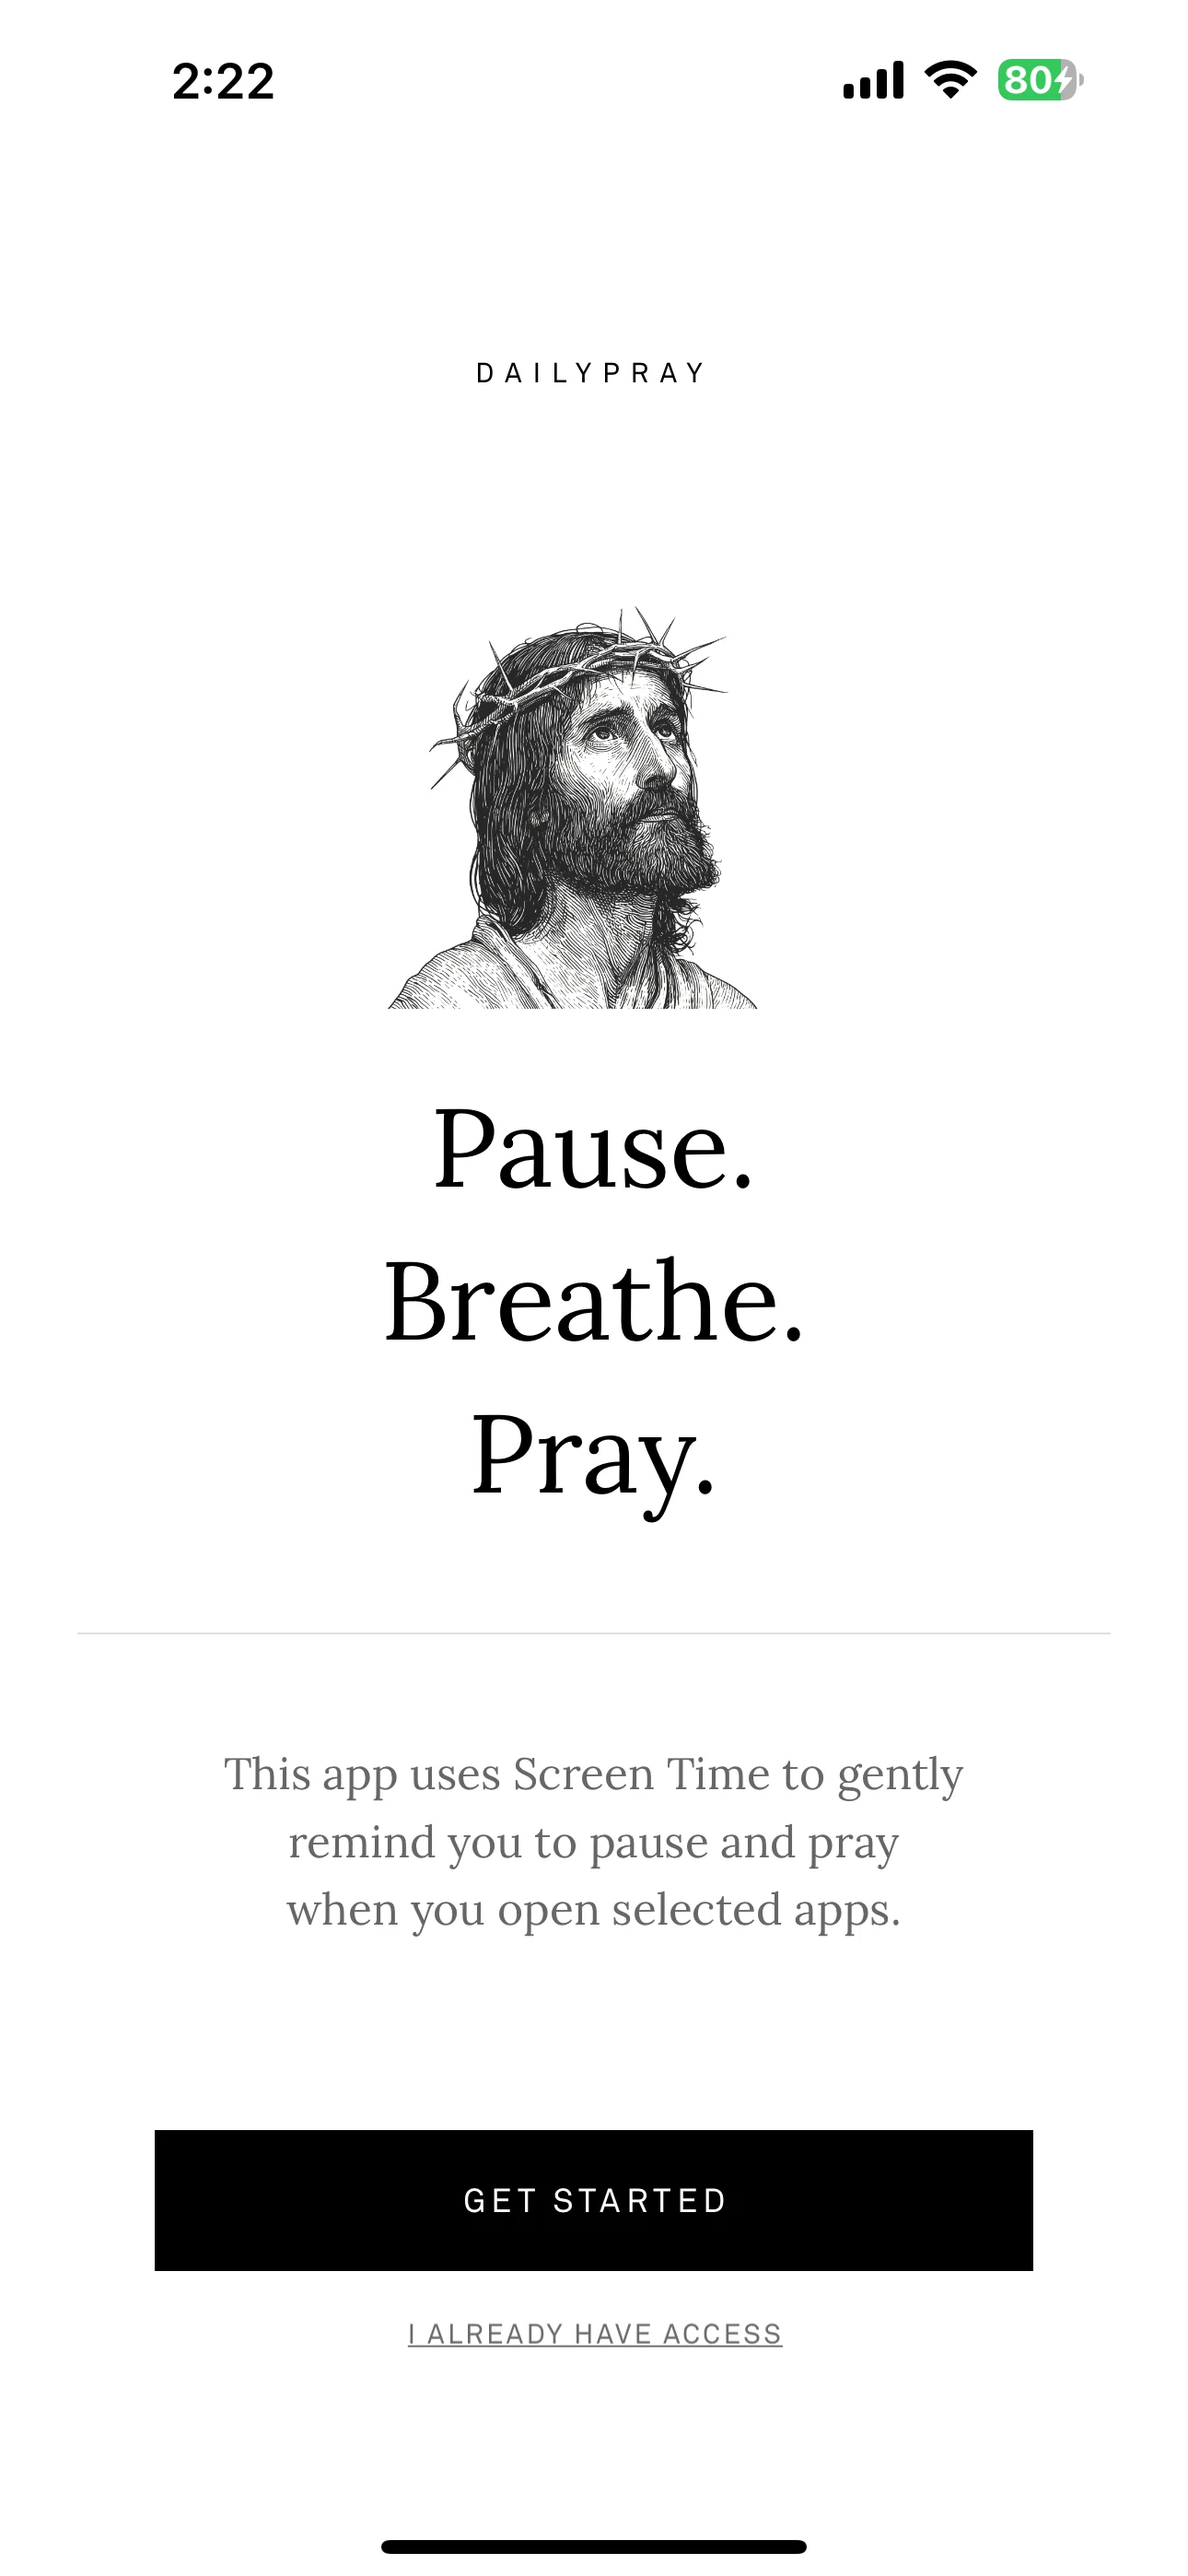
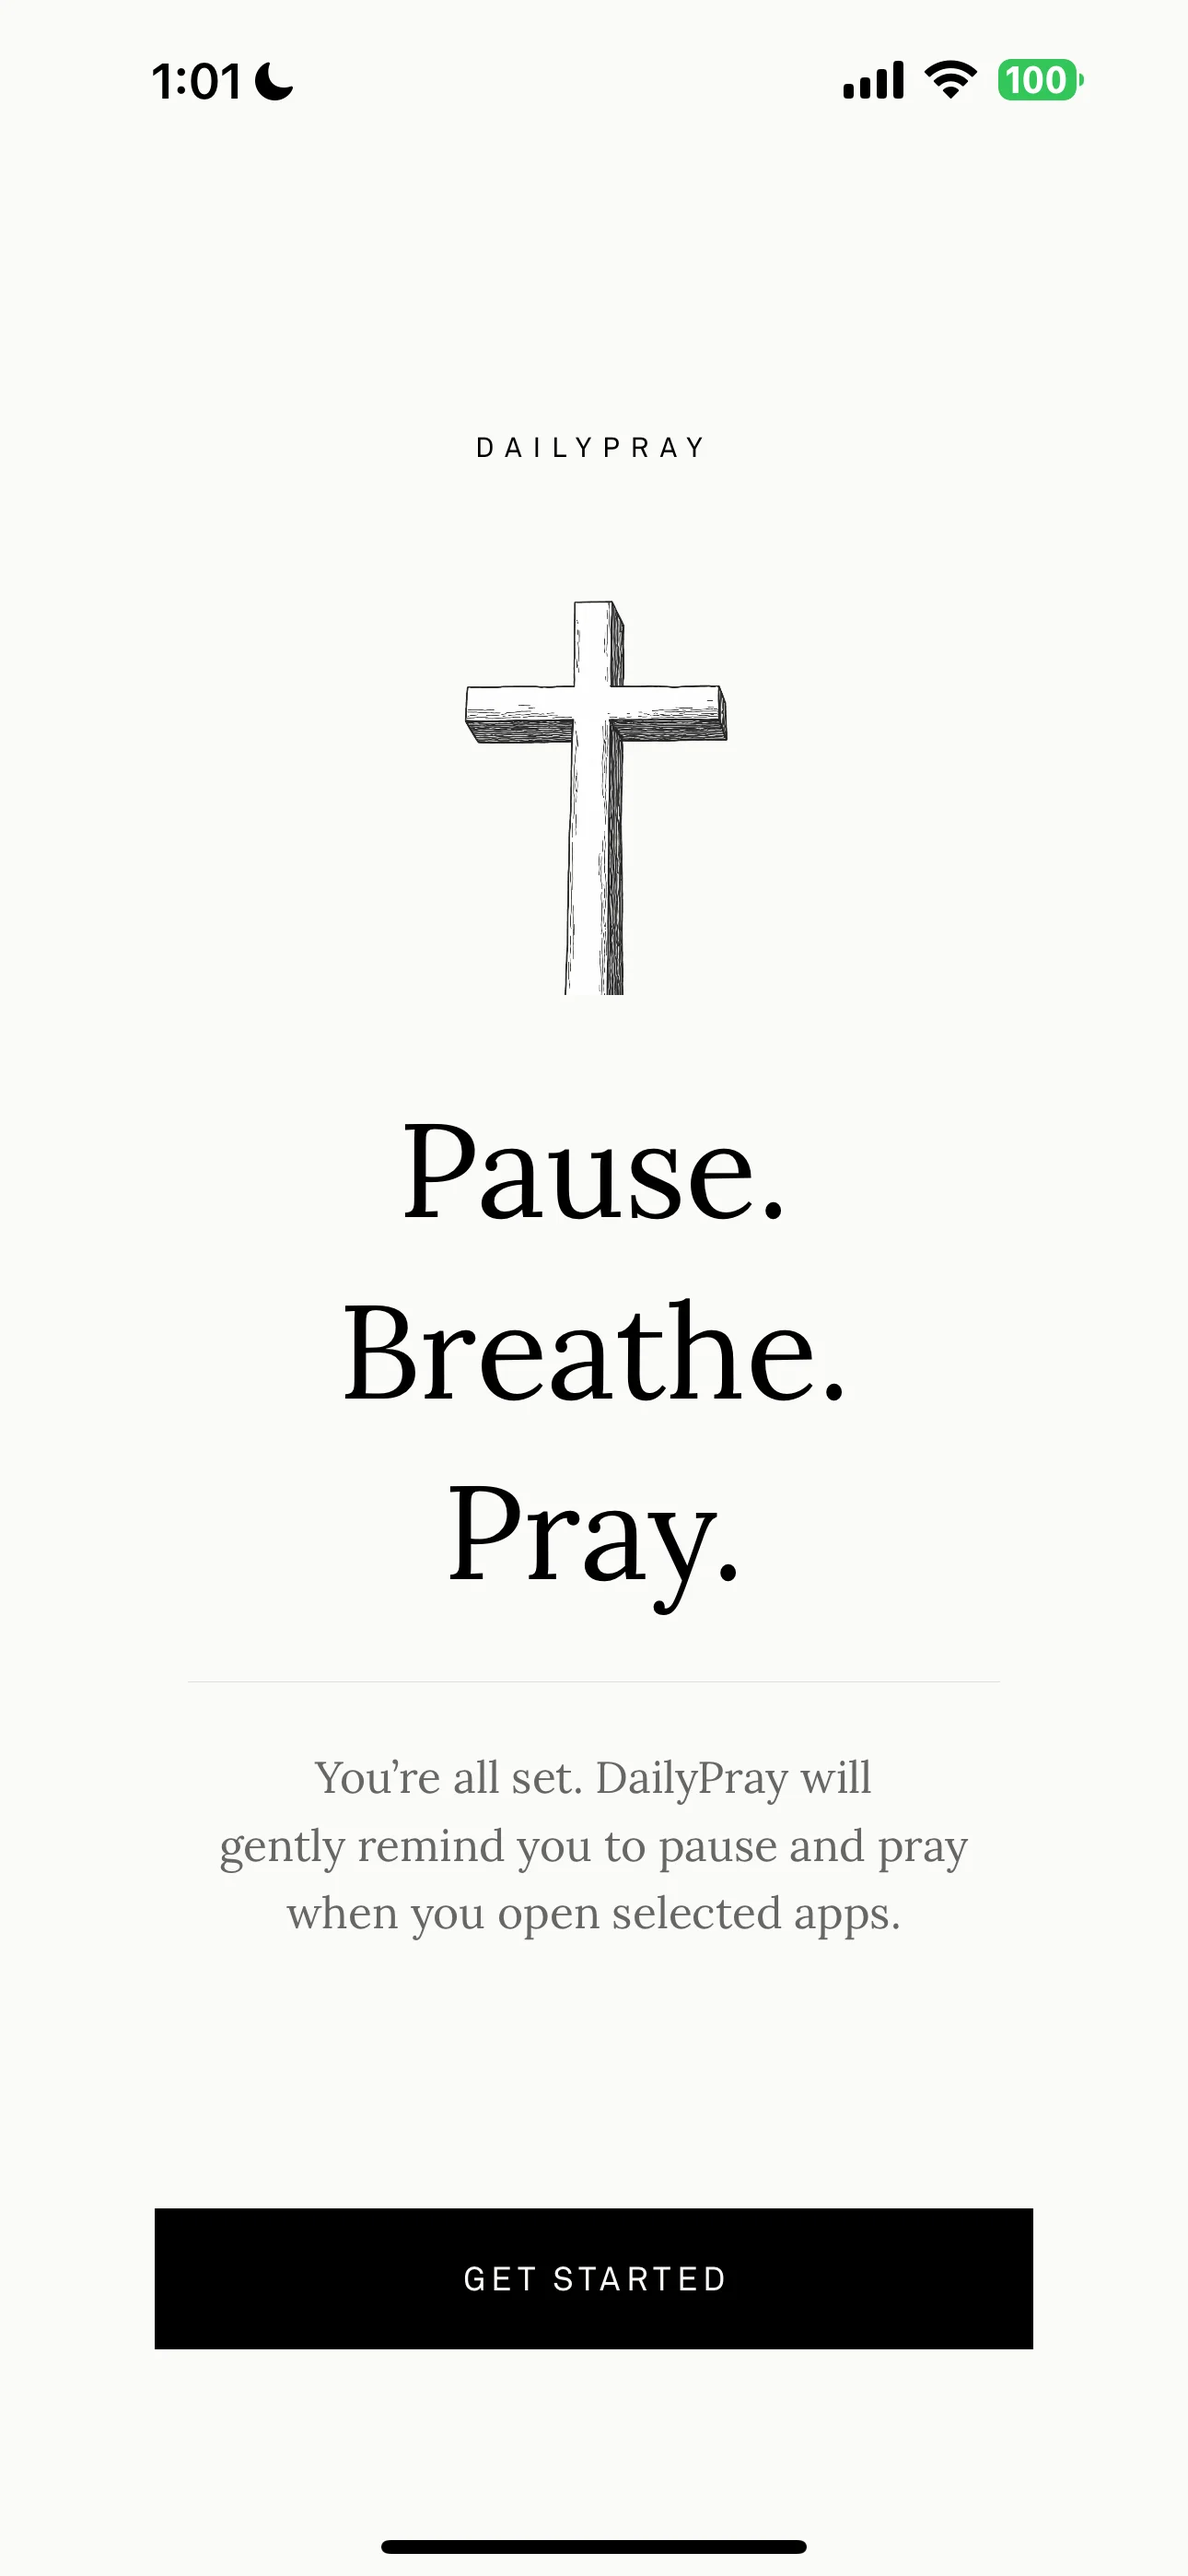
Update onboarding screenshot, add ultra-wide breakpoint, tune phone positioning
- Replace onboarding screenshot with new "Pause. Breathe. Pray." screen (WebP, 49KB)
- Remove old onboarding.jpeg (no longer referenced)
- Split Wide breakpoint into Wide (1280–1599px) and Ultra-wide (≥1600px) to handle
  different viewport heights — phones were clipping "Pray." on 14" MacBook (1512px)
  but overlapping hands on ultra-wide (1920px)
- Tune phone sizes in Wide range (300px center, 256px sides) for better fit
- Adjust Desktop (769–1279px) phone margin to 200px

diff --git a/app/page.module.css b/app/page.module.css
@@ -132,10 +132,10 @@
 }
 
 /* ============================================
-   WIDE (≥1280px)
+   WIDE (1280px – 1599px)
    ============================================ */
 
-@media (min-width: 1280px) {
+@media (min-width: 1280px) and (max-width: 1599px) {
   .hero {
     padding: 28px var(--space-horizontal) 14px;
   }
@@ -165,7 +165,68 @@
   }
 
   .phones {
-    margin: 120px auto 0;
+    margin: 160px auto 0;
+    padding: 0 var(--space-horizontal);
+    max-width: 1000px;
+  }
+
+  .phoneCenter {
+    z-index: 3;
+    width: 300px;
+  }
+
+  .phoneLeft,
+  .phoneRight {
+    z-index: 1;
+    width: 256px;
+  }
+
+  .phoneLeft {
+    margin-right: -40px;
+    transform: translateY(30px);
+  }
+
+  .phoneRight {
+    margin-left: -40px;
+    transform: translateY(30px);
+  }
+}
+
+/* ============================================
+   ULTRA-WIDE (≥1600px)
+   ============================================ */
+
+@media (min-width: 1600px) {
+  .hero {
+    padding: 28px var(--space-horizontal) 14px;
+  }
+
+  .title {
+    font-size: var(--text-decorative);
+    margin-bottom: 14px;
+  }
+
+  .subtitle {
+    font-size: var(--text-italic-medium);
+    max-width: 600px;
+    margin-bottom: 24px;
+  }
+
+  .downloadBtn {
+    padding: 14px 44px;
+    font-size: 12px;
+  }
+
+  .desktopOnly {
+    display: block;
+  }
+
+  .mobileOnly {
+    display: none;
+  }
+
+  .phones {
+    margin: 200px auto 0;
     padding: 0 var(--space-horizontal);
     max-width: 1000px;
   }
@@ -226,7 +287,7 @@
   }
 
   .phones {
-    margin: 200px auto 0;
+    margin: 160px auto 0;
     padding: 0 var(--space-horizontal);
     max-width: 1000px;
   }
@@ -300,5 +361,34 @@
   .phoneLeft,
   .phoneRight {
     display: none;
+  }
+
+  .modalOverlay {
+    padding: 20px;
+  }
+
+  .modal {
+    max-width: 100%;
+    width: 100%;
+    padding: 40px 24px;
+  }
+
+  .modalTitle {
+    font-size: var(--text-headline);
+    margin-bottom: 10px;
+  }
+
+  .modalSubtitle {
+    font-size: var(--text-small);
+    margin-bottom: 28px;
+  }
+
+  .modalForm {
+    gap: 14px;
+  }
+
+  .modalBtn {
+    padding: 14px 36px;
+    font-size: 11px;
   }
 }
